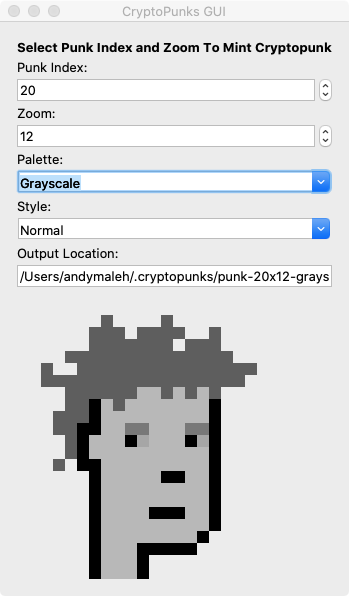
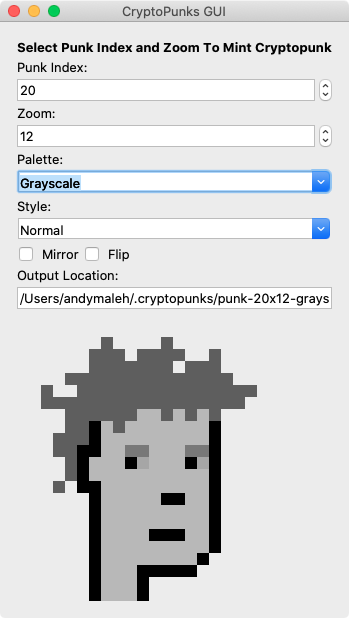
Changed flip and mirror to checkbuttons

diff --git a/app/cryptopunks_gui.rb b/app/cryptopunks_gui.rb
@@ -10,10 +10,10 @@ require 'puts_debuggerer'
 class CryptopunksGui
   include Glimmer
   
-  PALETTES = ['Standard'] + (Palette8bit.constants).map(&:name).map {|palette| palette.split('_').map(&:capitalize).join(' ')}.reject { |palette| palette.include?(' ') }
-  STYLES = ['Normal', 'Flip', 'Mirror', 'Led', 'Sketch']
+  PALETTES = ['Standard'] + (Palette8bit.constants).map(&:name).map {|palette| palette.split('_').map(&:capitalize).join(' ')}.reject { |palette| palette.include?(' ') }.sort
+  STYLES = ['Normal', 'Led', 'Sketch']
   
-  attr_accessor :punk_index, :zoom, :palette, :style
+  attr_accessor :punk_index, :zoom, :palette, :style, :flip, :mirror
   
   def initialize
     initialize_punks
@@ -44,6 +44,8 @@ class CryptopunksGui
     @zoom = 12
     @palette = PALETTES.first
     @style = STYLES.first
+    @mirror = false
+    @flip = false
   end
   
   def observe_image_attribute_changes
@@ -52,6 +54,8 @@ class CryptopunksGui
     observer.observe(self, :zoom)
     observer.observe(self, :palette)
     observer.observe(self, :style)
+    observer.observe(self, :mirror)
+    observer.observe(self, :flip)
   end
   
   def generate_image
@@ -63,12 +67,14 @@ class CryptopunksGui
     if @style != STYLES.first
       selected_punk = selected_punk.send(@style.underscore)
       if @style != @previous_style
-        @zoom = 12 if @style == 'Flip' && !['Normal', 'Mirror'].include?(@previous_style)
-        @zoom = 12 if @style == 'Mirror' && !['Normal', 'Flip'].include?(@previous_style)
         @zoom = 2 if @style == 'Sketch'
         @zoom = 1 if @style == 'Led'
       end
+    else
+      @zoom = 12 if @style != @previous_style
     end
+    selected_punk = selected_punk.mirror if @mirror
+    selected_punk = selected_punk.flip if @flip
     selected_punk = selected_punk.zoom(@zoom.to_i)
     selected_punk.save(image_location)
     @image_label.image = image_location
@@ -120,6 +126,36 @@ class CryptopunksGui
         combobox {
           readonly true
           text <=> [self, :style]
+        }
+        
+        frame {
+          padding 0
+          
+          @mirror_checkbutton = checkbutton {
+            grid row: 0, column: 0, column_weight: 0
+            variable <=> [self, :mirror]
+          }
+          label {
+            grid row: 0, column: 1
+            text 'Mirror'
+            
+            on('Button-1') do
+              self.mirror = !mirror
+            end
+          }
+          
+          @flip_checkbutton = checkbutton {
+            grid row: 0, column: 2
+            variable <=> [self, :flip]
+          }
+          label {
+            grid row: 0, column: 3
+            text 'Flip'
+            
+            on('Button-1') do
+              self.flip = !flip
+            end
+          }
         }
         
         label {

diff --git a/README.md b/README.md
@@ -1,4 +1,4 @@
-# <img src="https://raw.githubusercontent.com/AndyObtiva/cryptopunks-gui/master/icons/cryptopunks-gui.png" height=85 /> CryptoPunks GUI 0.0.3
+# <img src="https://raw.githubusercontent.com/AndyObtiva/cryptopunks-gui/master/icons/cryptopunks-gui.png" height=85 /> CryptoPunks GUI 0.0.4
 ## Simplified Minting
 [![Gem Version](https://badge.fury.io/rb/cryptopunks-gui.svg)](http://badge.fury.io/rb/cryptopunks-gui)
 
@@ -25,7 +25,7 @@ You can use CryptoPunks GUI via gem or via cloning repository.
 Run:
 
 ```
-gem install cryptopunks-gui -v0.0.3
+gem install cryptopunks-gui -v0.0.4
 ```
 
 Afterwards, run app via:
@@ -99,13 +99,25 @@ Change palette to get different punk colors.
 
 Change style to get different punk looks.
 
-![Screenshot](/screenshots/cryptopunks-gui-screenshot-style-mirror.png)
-
-![Screenshot](/screenshots/cryptopunks-gui-screenshot-style-flip.png)
+![Screenshot](/screenshots/cryptopunks-gui-screenshot-style-normal.png)
 
 ![Screenshot](/screenshots/cryptopunks-gui-screenshot-style-led.png)
 
 ![Screenshot](/screenshots/cryptopunks-gui-screenshot-style-sketch.png)
+
+### Mirror/Flip
+
+Check mirror and/or flip to apply punk transformation. Can combine with different palettes and styles.
+
+![Screenshot](/screenshots/cryptopunks-gui-screenshot-no-mirror-no-flip.png)
+
+![Screenshot](/screenshots/cryptopunks-gui-screenshot-mirror.png)
+
+![Screenshot](/screenshots/cryptopunks-gui-screenshot-flip.png)
+
+![Screenshot](/screenshots/cryptopunks-gui-screenshot-mirror-flip.png)
+
+![Screenshot](/screenshots/cryptopunks-gui-screenshot-palette-false-style-led-mirror-flip.png)
 
 ## TODO
 

diff --git a/CHANGELOG.md b/CHANGELOG.md
@@ -2,6 +2,7 @@
 
 ## 0.0.4
 
+- Changed flip and mirror to checkbuttons
 - Fixed zooming for led and sketch styles
 
 ## 0.0.3
